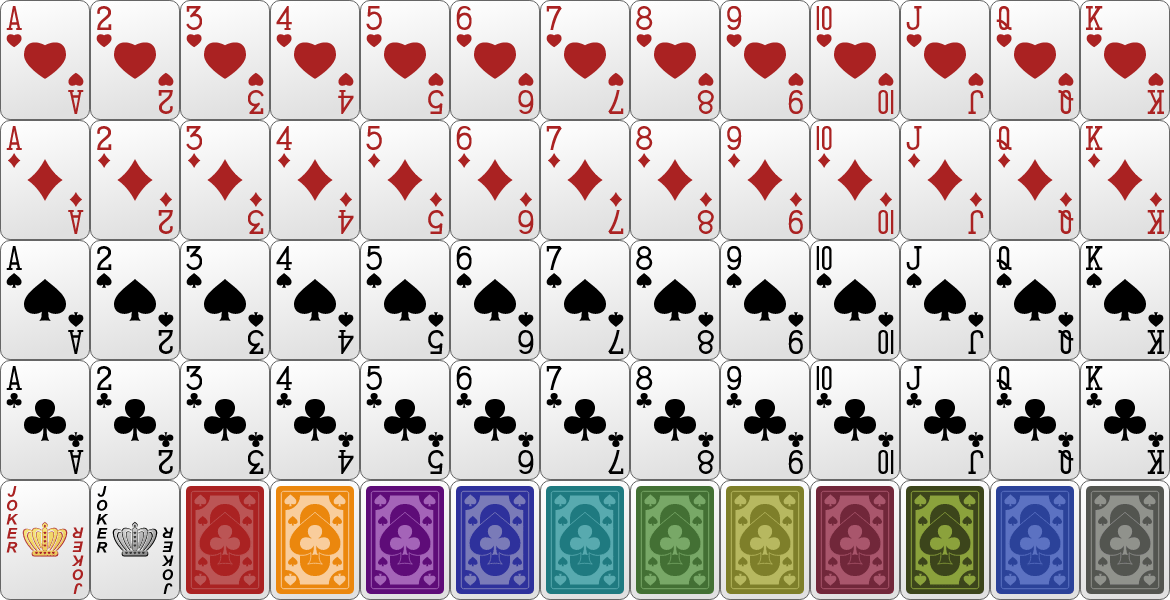
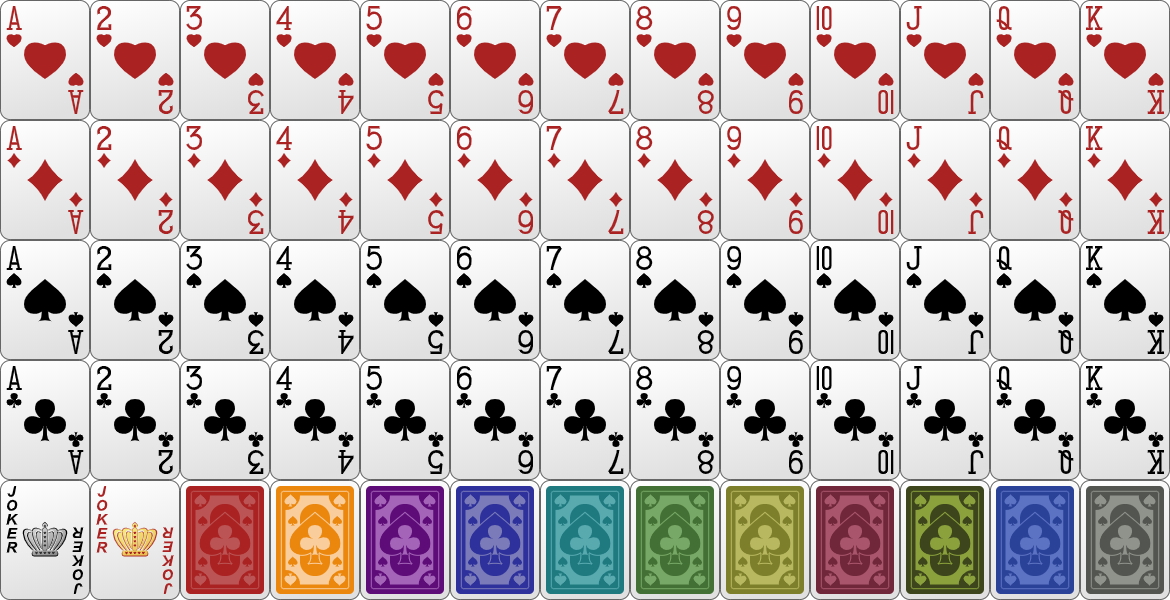
修复图片大小王顺序问题

Changed region(s): [[0.0, 0.81, 0.1538, 0.99]]

diff --git a/doudizhu/static/generator.html b/doudizhu/static/generator.html
@@ -15,8 +15,7 @@
 <script src="../static/js/generator.js"></script>
 <script>
     if (window.Poker) {
-        var container = document.getElementById('container'), domCanvas = document.createElement('canvas'),
-            canvas = domCanvas.getContext('2d');
+        var container = document.getElementById('container'), domCanvas = document.createElement('canvas'), canvas = domCanvas.getContext('2d');
         var commandArray = [[], [], [], [], [], [], [], [], [], [], [], [], []], param = {};
         container.appendChild(domCanvas);
         function showpoker(size) {
@@ -33,8 +32,8 @@
                 }
                 x = 0, y += h;
             }
-            drawPokerCard(x = 0, y, h, 'hearts', 'joker');
-            drawPokerCard(x += w, y, h, 'spades', 'joker');
+            drawPokerCard(x = 0, y, h, 'spades', 'joker');
+            drawPokerCard(x += w, y, h, 'hearts', 'joker');
             drawPokerBack(x += w, y, h, '#b55', '#a22');
             drawPokerBack(x += w, y, h, '#F9CD9C', '#EB870D');
             drawPokerBack(x += w, y, h, '#A464B8', '#5E0C78');
